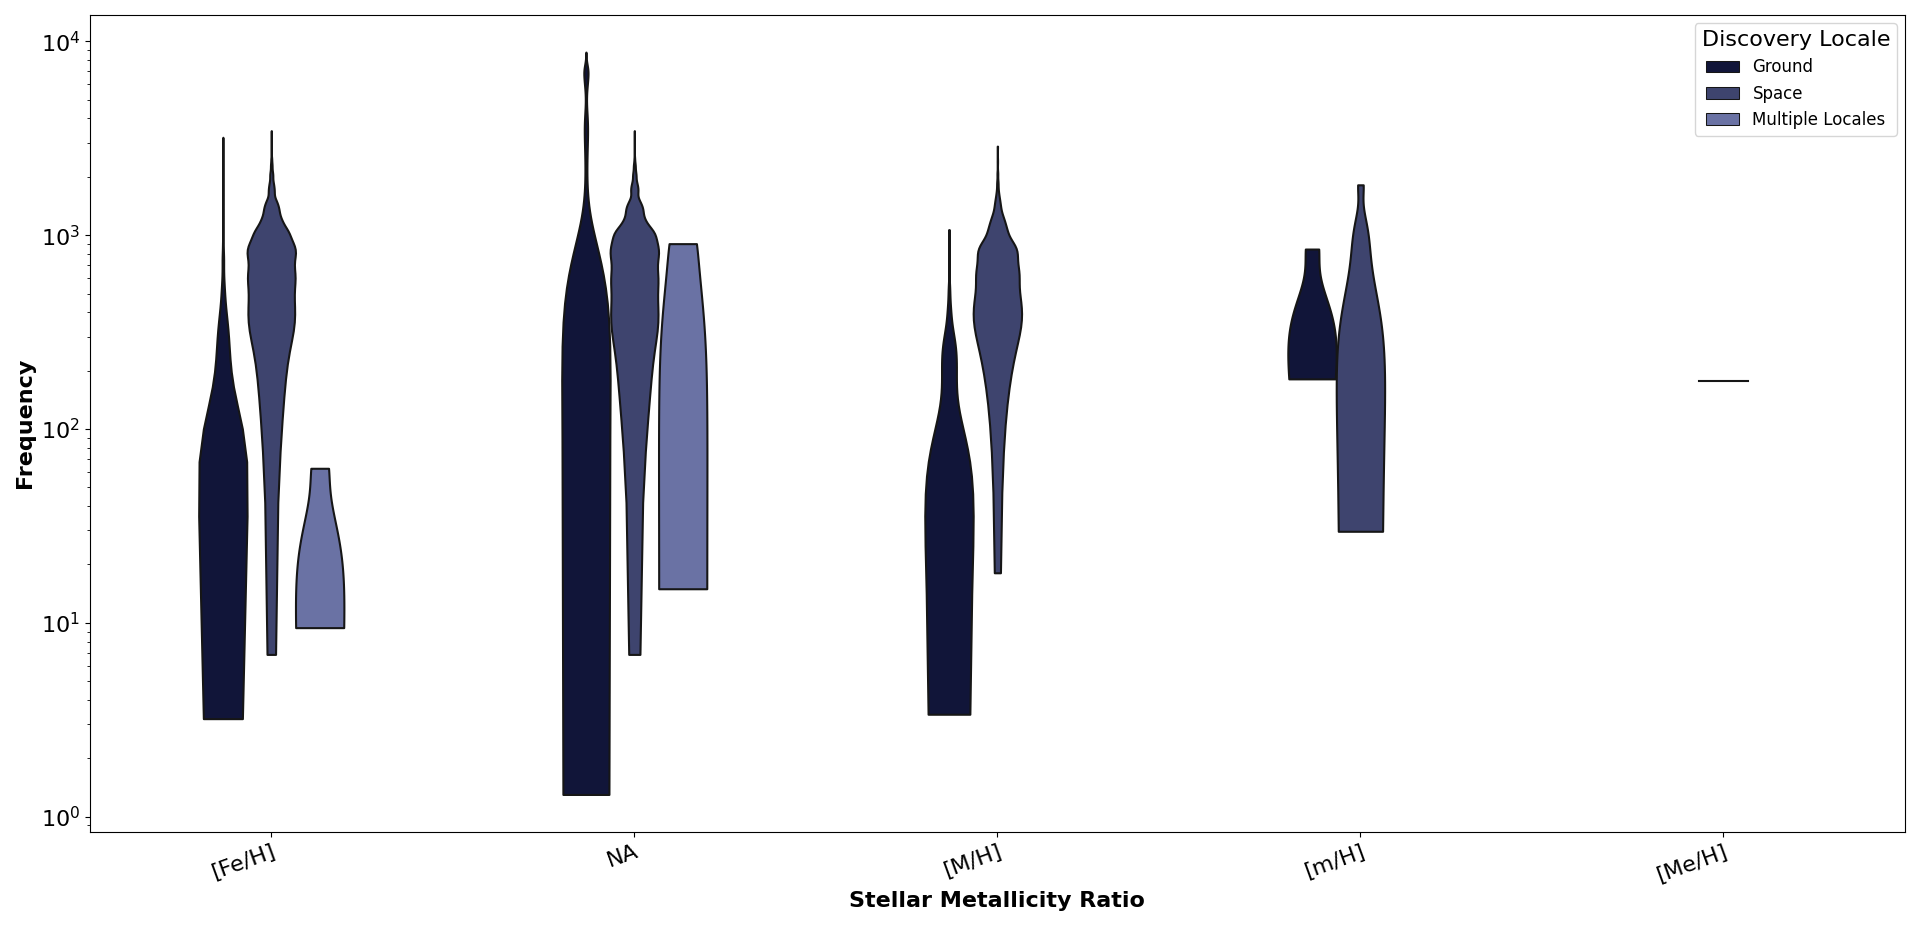
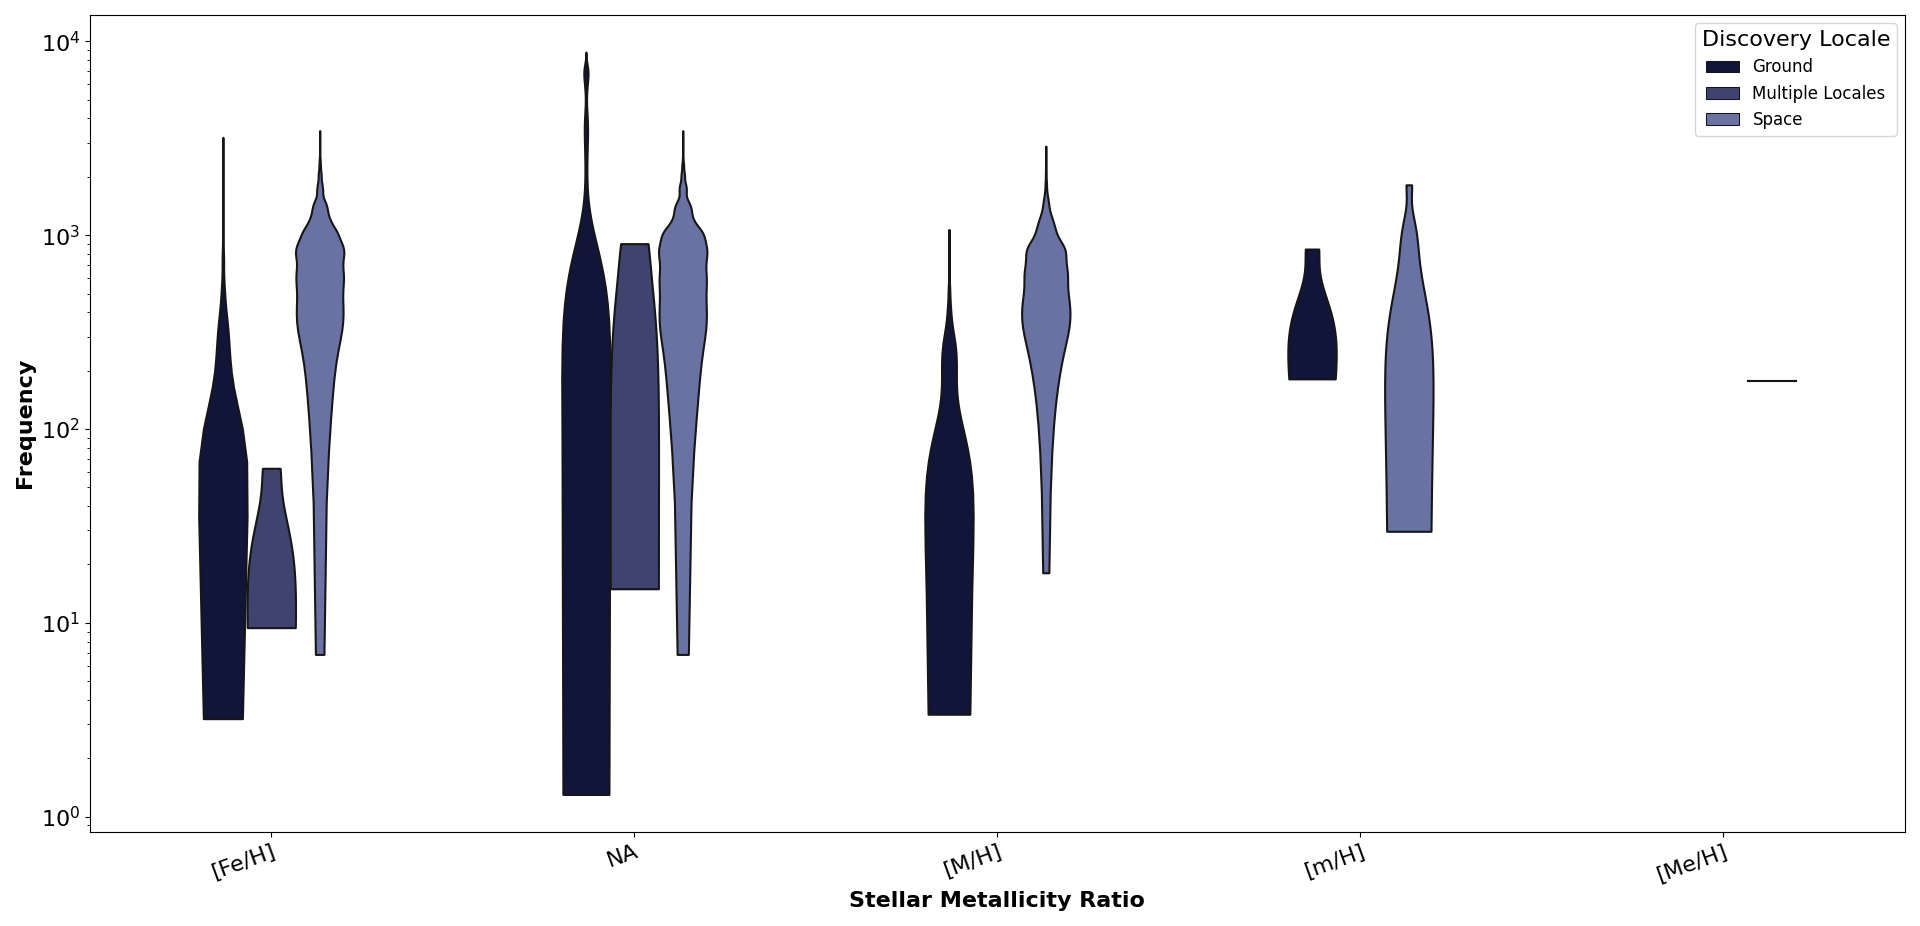
violin grouped pytho plotly finished

diff --git a/Plot_types/Violin Grouped/Violin_Grouped_Python_plotly.py b/Plot_types/Violin Grouped/Violin_Grouped_Python_plotly.py
@@ -1,0 +1,82 @@
+
+# Paths:
+path_data = "data/"
+
+# Packages:
+import numpy as np
+import pandas as pd
+import plotly.express as px
+import plotly.graph_objects as go
+from matplotlib.colors import LinearSegmentedColormap, to_hex
+from math import floor, ceil
+
+# Display options:
+pd.set_option("display.width", 1200)
+pd.set_option("display.max_columns", 300)
+pd.set_option("display.max_rows", 300)
+
+# Dataset:
+df = pd.read_csv(path_data + "nasa_exoplanets.csv")
+df_varnames = pd.read_csv(path_data + "nasa_exoplanets_var_names.csv")
+
+# Variables:
+cat_var1 = "st_metratio"
+cat_var2 = "disc_locale"
+cat_var_name1 = df_varnames.loc[(df_varnames["var"] == cat_var1), ["var_name"]].values[0][0]
+cat_var_name2 = df_varnames.loc[(df_varnames["var"] == cat_var2), ["var_name"]].values[0][0]
+num_var = "sy_dist"
+num_var_name = df_varnames.loc[(df_varnames["var"] == num_var), ["var_name"]].values[0][0]
+
+# Adapt the data:
+df_plot = df.loc[:, [cat_var1, cat_var2, num_var]]
+
+# Deal with nan:
+df_plot[cat_var1] = df_plot[cat_var1].fillna("NA")
+df_plot[cat_var2] = df_plot[cat_var2].fillna("NA")
+
+# Plot:
+lvls1 = np.sort(df_plot[cat_var1].unique())
+n_levels1 = len(lvls1)
+lvls2 = np.sort(df_plot[cat_var2].unique())
+n_levels2 = len(lvls2)
+cmap = LinearSegmentedColormap.from_list("my_palette", ["#111539", "#97A1D9"])
+my_palette = [to_hex(j) for j in  [cmap(i/n_levels2) for i in np.array(range(n_levels2))]]
+
+fig = go.Figure()
+for l2, lvl2 in enumerate(lvls2):
+    fig.add_trace(
+        go.Violin(
+            x = df_plot[cat_var1][df_plot[cat_var2] == lvl2],
+            y = df_plot[num_var][df_plot[cat_var2] == lvl2],
+            line_color = my_palette[l2],
+            fillcolor = my_palette[l2],
+            opacity = 1,
+            points = False,
+            box_visible = False,
+            meanline_visible = False,
+            spanmode = "hard",
+            name = lvl2
+        )
+    )
+fig.update_yaxes(
+    type = "log"
+)
+fig.update_layout(
+    xaxis_title = "<b>" + cat_var_name1 + "</b>" ,
+    yaxis_title = "<b>" + num_var_name + "</b>",
+    font = dict(
+        size = 18
+    ),
+    showlegend = True,
+    legend_title_text = "<b>" + cat_var_name2 + "</b>",
+    plot_bgcolor = "white",
+    hoverlabel = dict(
+        font_size = 18,
+        font_family = "Rockwell"
+    ),
+    violingap = 0,
+    violinmode = "group"
+)
+fig.show()
+
+

diff --git a/Plot_types/Violin Grouped/Violin_Grouped_Python_seaborn.py b/Plot_types/Violin Grouped/Violin_Grouped_Python_seaborn.py
@@ -53,6 +53,7 @@ sns.violinplot(
     y = num_var,
     color = cat_var2,
     hue = cat_var2,
+    hue_order = pd.crosstab(df_plot[cat_var2], df_plot[cat_var1]).sort_values(by = cat_var2).index,
     scale = "width",
     dodge = True,
     palette = my_palette,
@@ -62,11 +63,6 @@ sns.violinplot(
     cut = 0,
     ax = ax
 )
-# for i, art in enumerate(ax.get_children()):
-#     if isinstance(art, PolyCollection):
-#         print(i)
-#         art.set_edgecolor(my_palette[i//3])
-
 _ = ax.legend(
     fontsize = "large",
     title = cat_var_name2,
@@ -100,17 +96,5 @@ _ = plt.setp(
     ha = "right", 
     rotation_mode = "anchor"
 )
-
-
-
-
-
-
-
-
-
-
-
-
 
 
